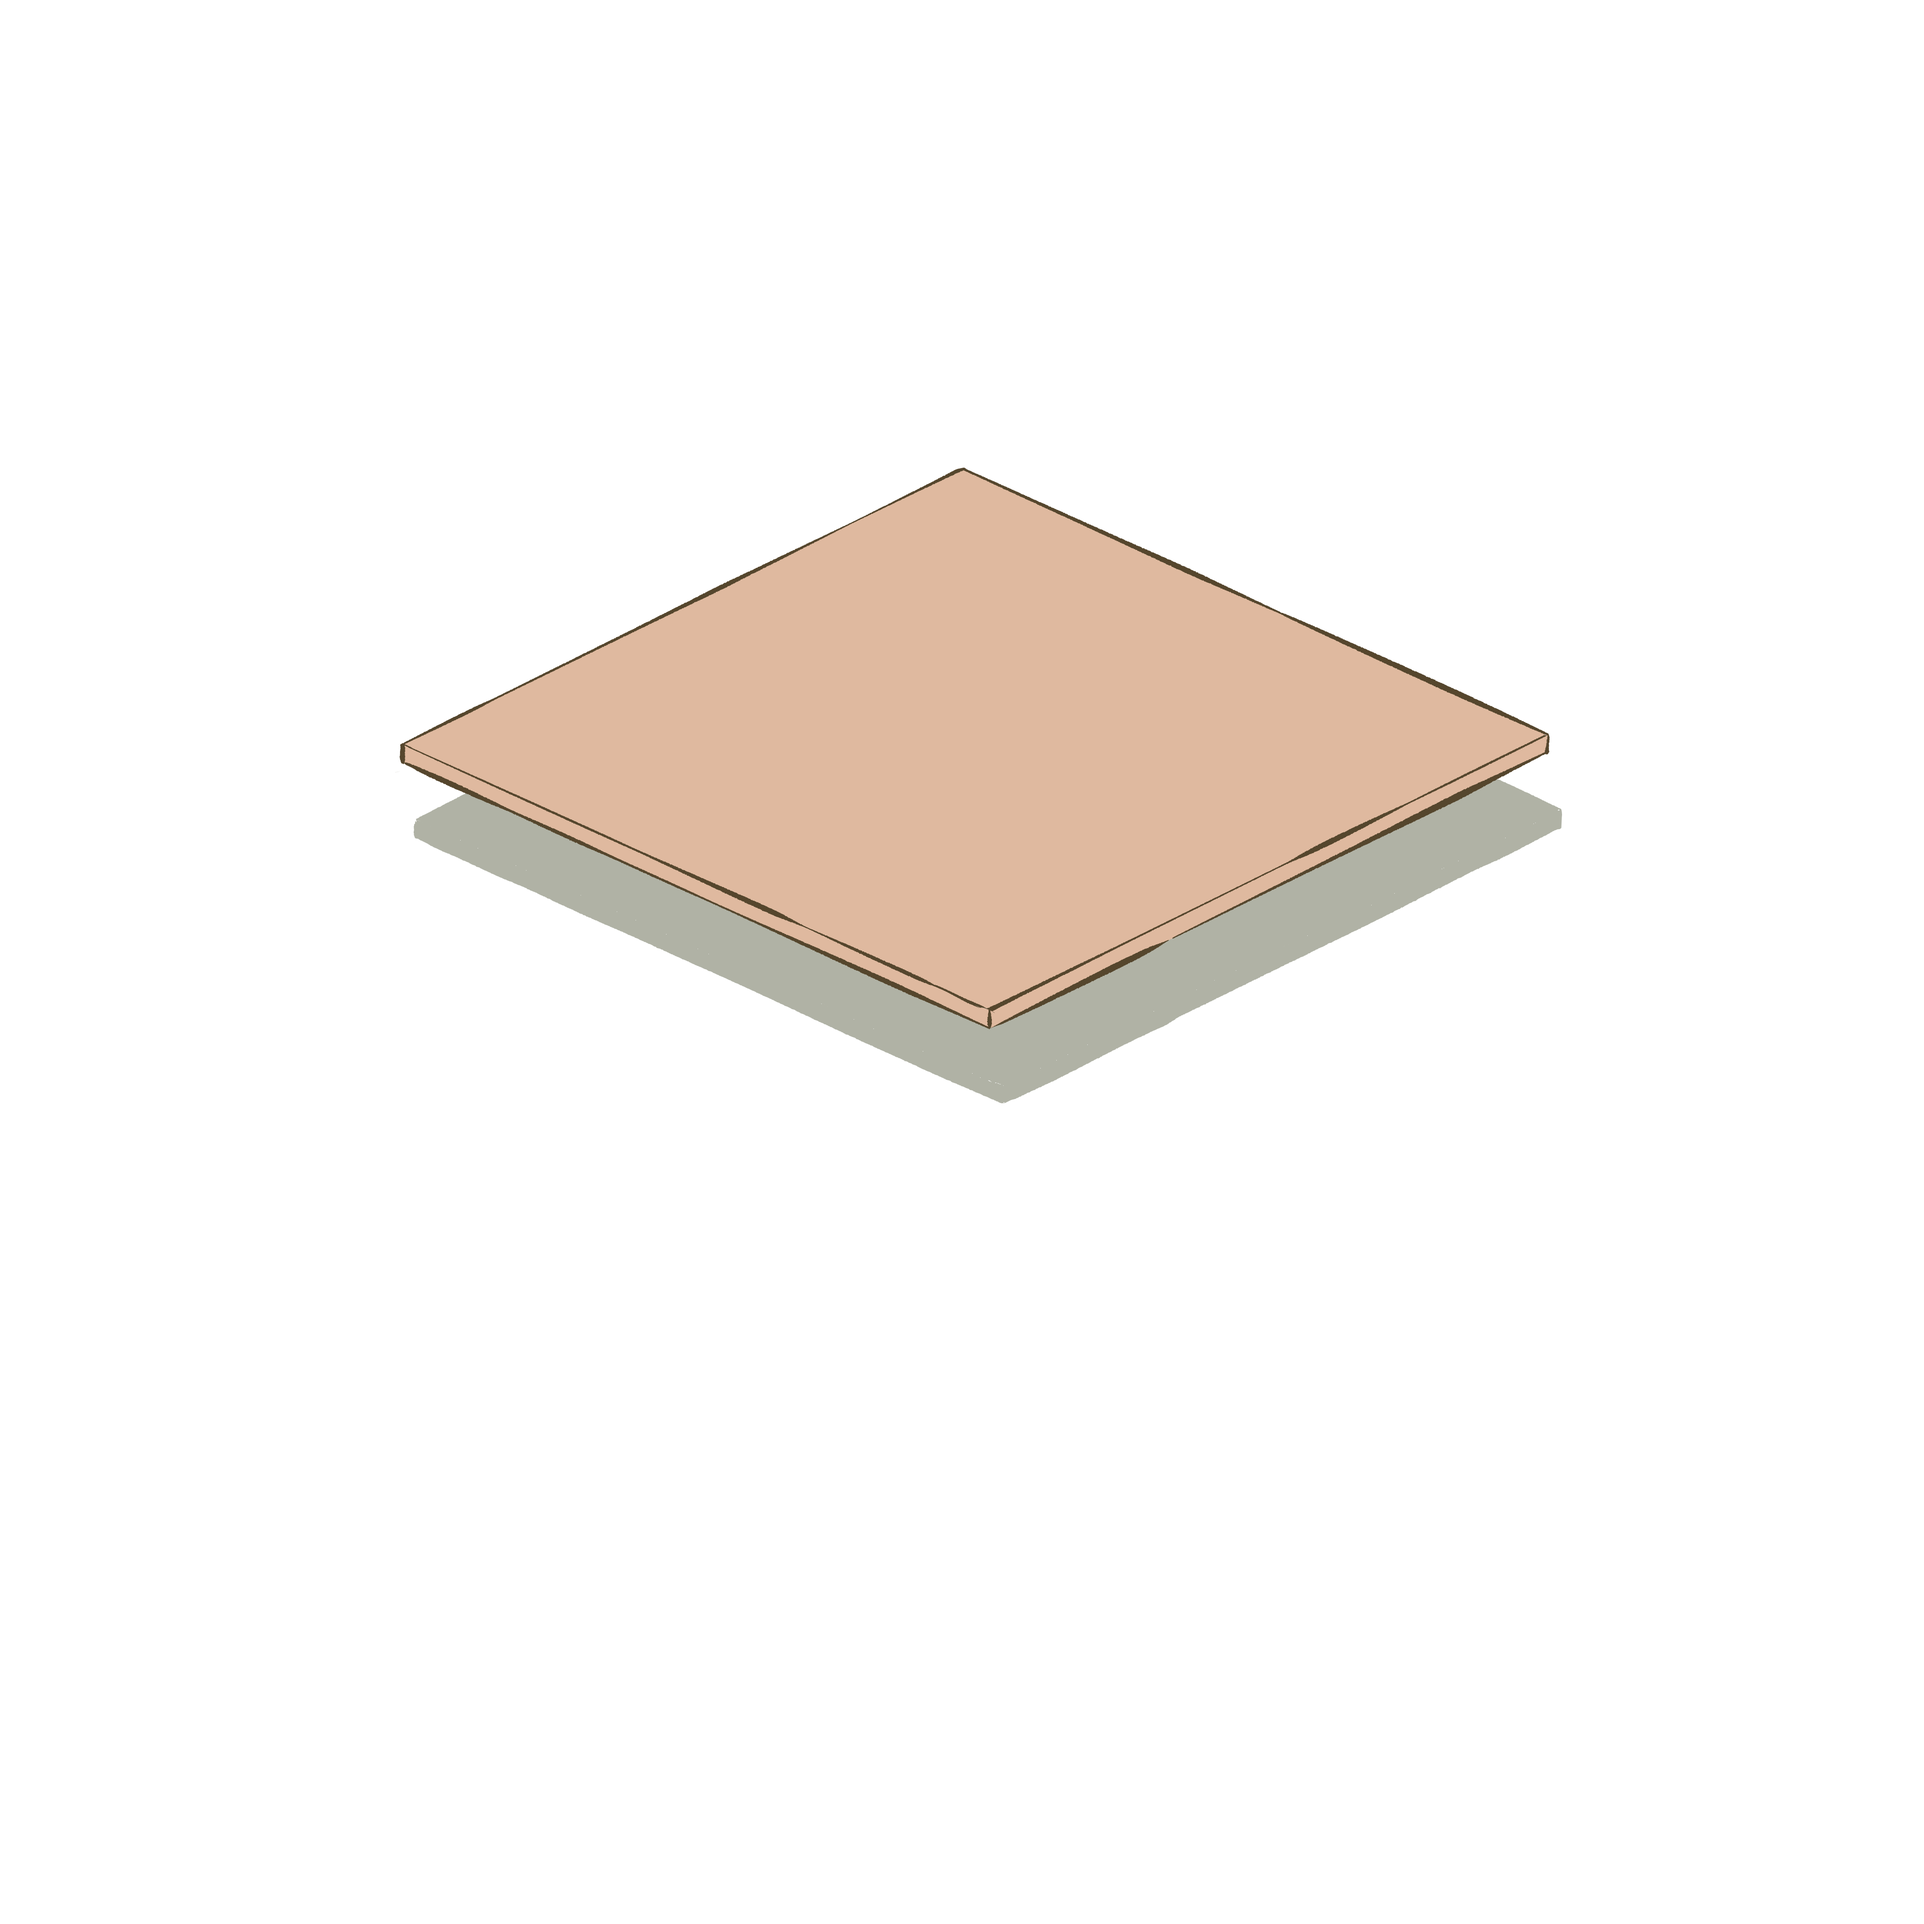
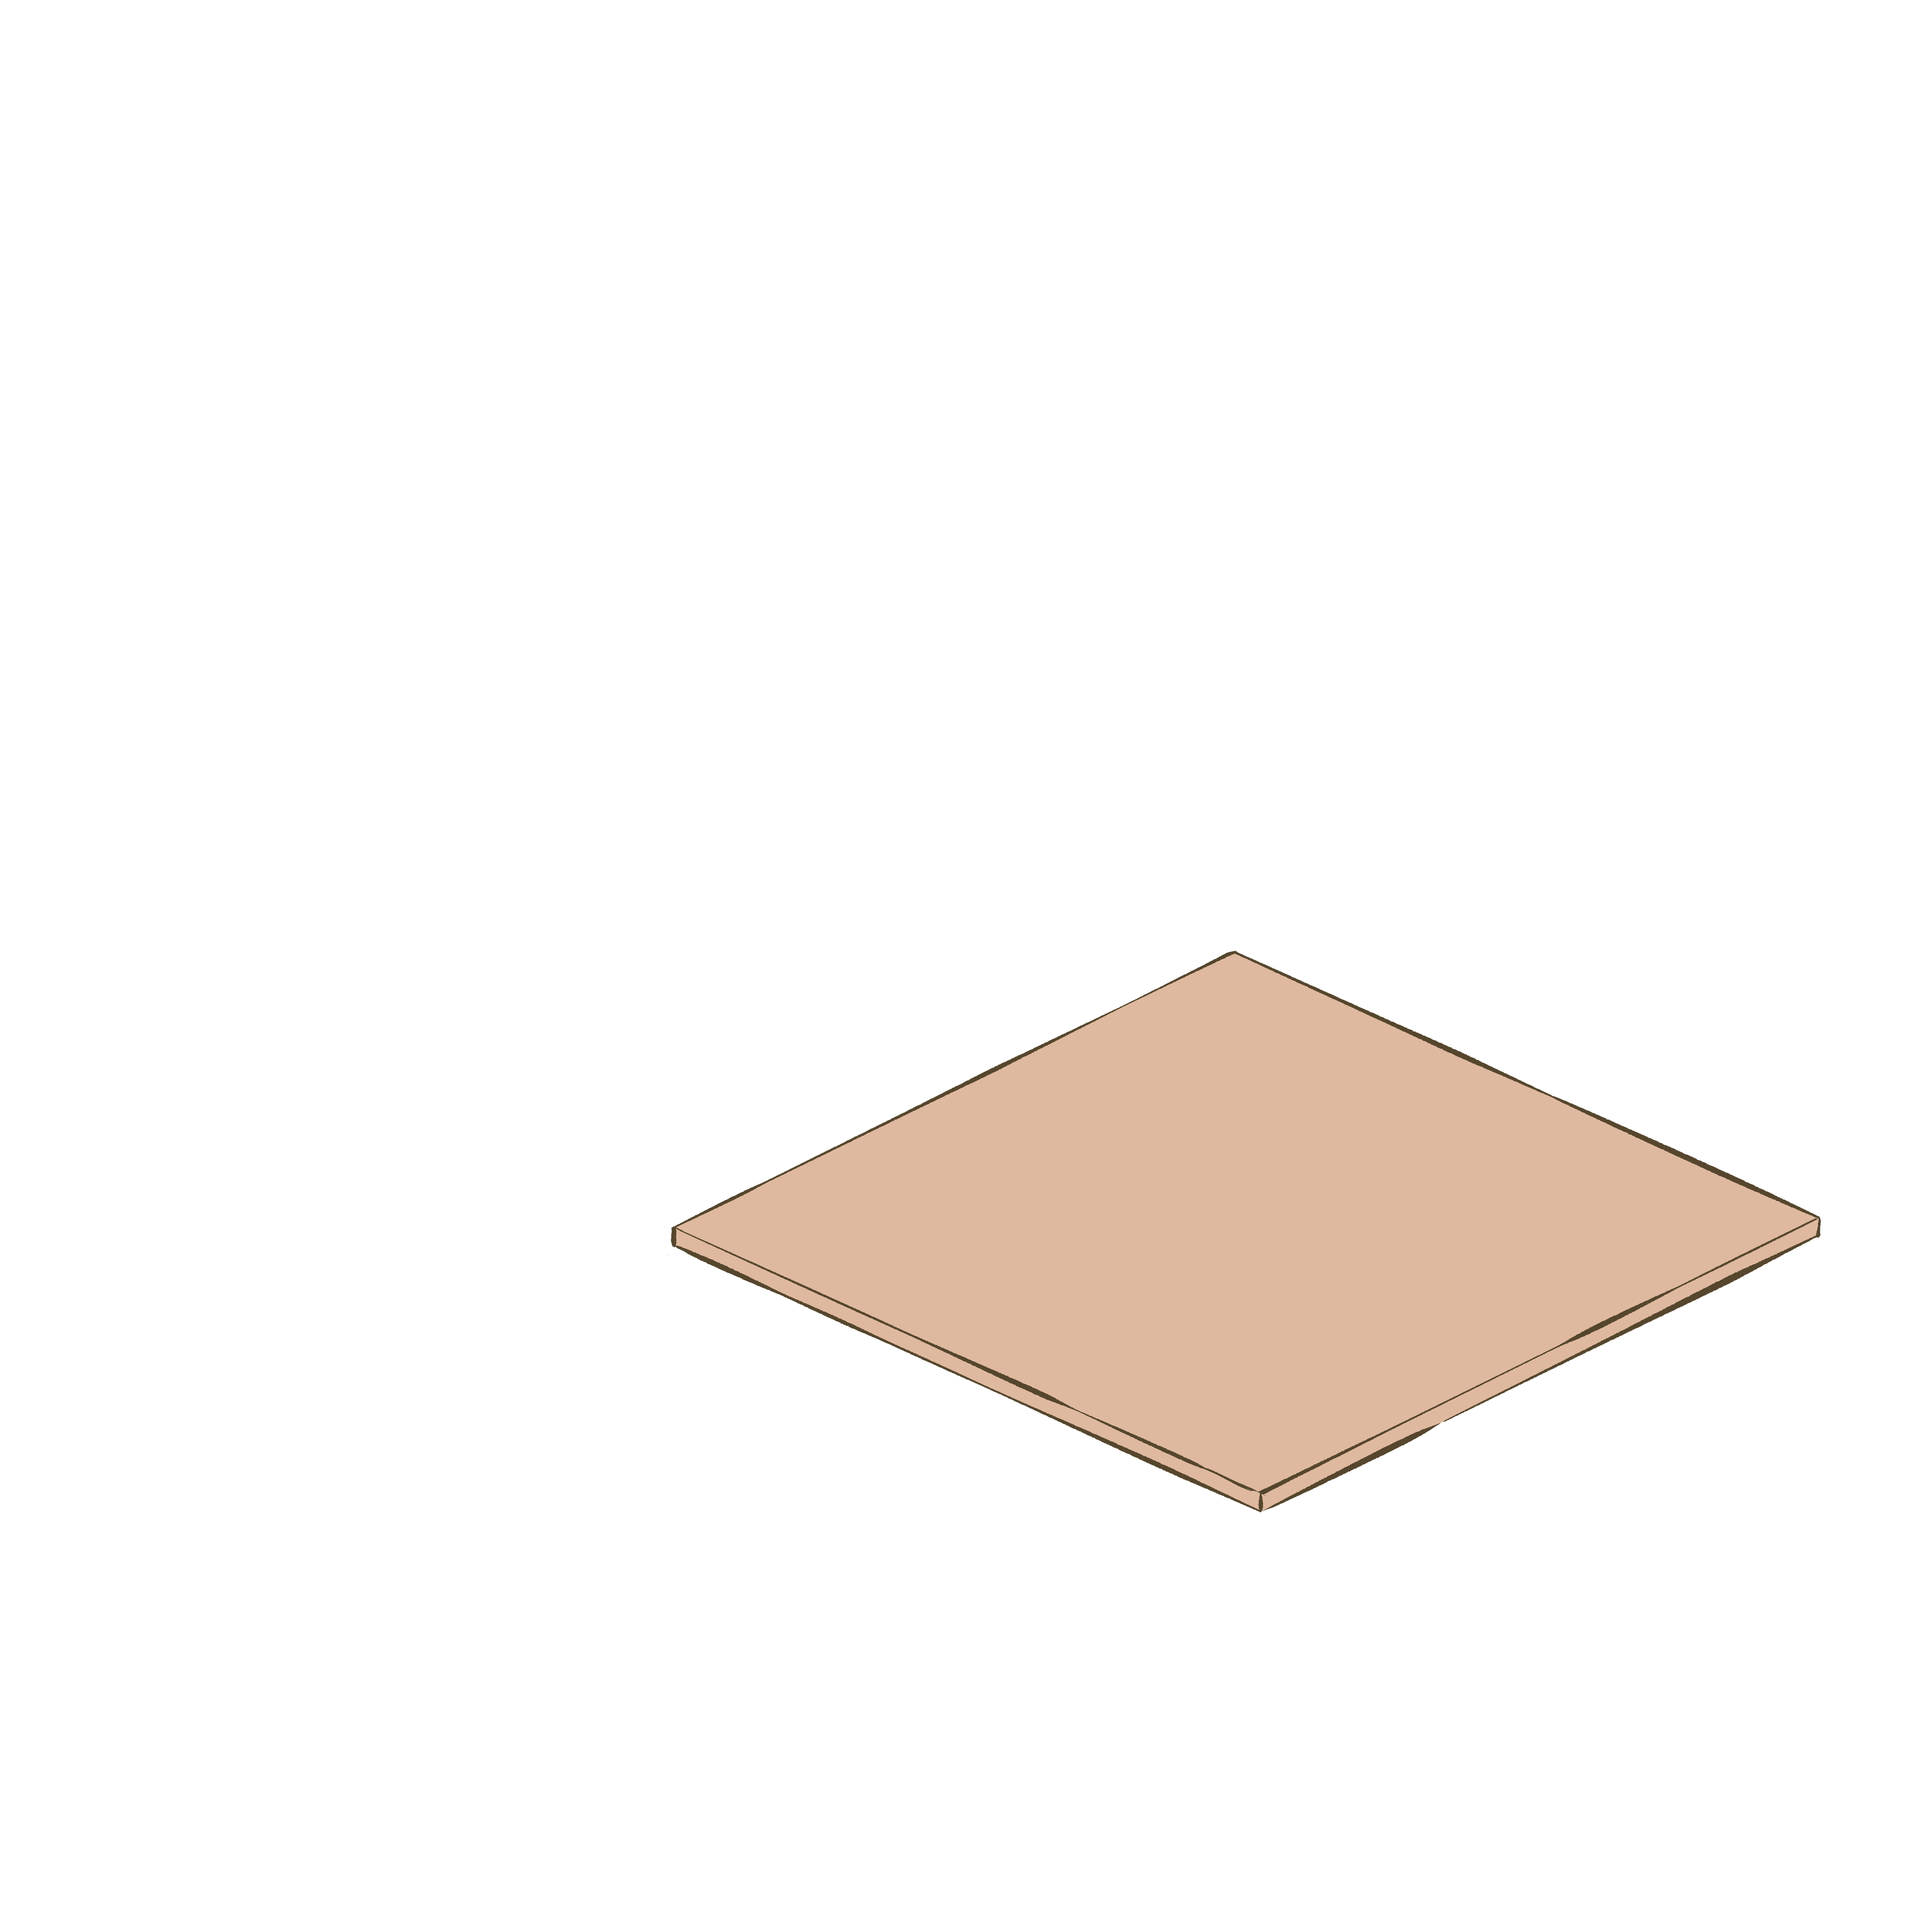
Config of object tap detection, Added objects (Kotatsu)

Changed region(s): [[0.1862, 0.2482, 0.9619, 0.8067]]

diff --git a/lib/scripts/layout/purin/purin_entity.dart b/lib/scripts/layout/purin/purin_entity.dart
@@ -1,37 +1,57 @@
+import 'package:flame/collisions.dart';
 import 'package:flame/components.dart';
 import 'package:flame/effects.dart';
 import 'package:flame/events.dart';
 import 'package:flame/flame.dart';
 import 'package:flutter/cupertino.dart';
+import 'package:flutter/material.dart';
 import 'package:pomodoropompurin/scripts/core/purin/purin_state_manager.dart';
 import 'package:pomodoropompurin/scripts/core/purinArea/purin_area_state_manager.dart';
 import 'package:pomodoropompurin/scripts/layout/purin/purin_anim.dart';
 
-class PurinEntity extends SpriteComponent with TapCallbacks {
-  PurinEntity({required Vector2 position, required Anchor anchor}) {
-    this.position = position;
-    sprite = Sprite(Flame.images.fromCache('SamplePurin.png'));
-    size = Vector2(80, 80);
-    this.anchor = anchor;
+class PurinEntity extends PositionComponent with TapCallbacks, GestureHitboxes {
+  PurinEntity() {
+    anchor = Anchor.center;
     priority = 20;
   }
 
   final purinAreaStateManager = PurinAreaStateManager.singleton;
 
   late PurinAnim purinAnim;
+  late SpriteComponent purinSprite;
+  late PolygonHitbox purinHitbox;
 
   @override
   void onMount() {
     super.onMount();
+    position = Vector2(130, 160);
+
     purinAnim = PurinAnim();
+    purinSprite = SpriteComponent(
+      sprite: Sprite(Flame.images.fromCache('purinEntity.png')),
+      size: Vector2.all(70),
+      position: Vector2(0, 0),
+      anchor: Anchor.center,
+    );
 
     /// just a scalingAnim (breathing..)
     add(purinAnim);
+    add(purinSprite);
+
+    //sample hitbox, to put in center first!
+    final hitbox = CircleHitbox(
+      radius: 25,
+      anchor: Anchor.center, // <-- remember this
+    );
+    hitbox.paint.color = const Color.fromARGB(135, 68, 137, 255);
+    //hitbox.renderShape = true;
+    add(hitbox);
   }
 
   @override
   void onLongTapDown(TapDownEvent event) {
     purinAreaStateManager.jumpToPosition(absolutePosition);
+    debugPrint("$absolutePosition");
     // ... open menu and stuff
   }
 }

diff --git a/lib/scripts/page/main_page.dart b/lib/scripts/page/main_page.dart
@@ -1,5 +1,6 @@
 import 'package:flame/game.dart';
 import 'package:flutter/material.dart';
+import 'package:pomodoropompurin/scripts/core/pom_timer/pom_timer.dart';
 import 'package:pomodoropompurin/scripts/layout/current_datetime_display/current_datetime_display.dart';
 import 'package:pomodoropompurin/scripts/layout/menu_dropdown/menu_dial.dart';
 import 'package:pomodoropompurin/scripts/layout/pom_timer/pom_timer_dial.dart';
@@ -16,12 +17,20 @@ class MainPage extends StatefulWidget {
   State<MainPage> createState() => _MainPageState();
 }
 
-class _MainPageState extends State<MainPage> {
+class _MainPageState extends State<MainPage> with TickerProviderStateMixin {
   final assetManager = AssetManager.singleton;
+  final pomTimer = PomTimer.singleton;
+  bool _enableModalBarrier = false;
 
   @override
   void initState() {
     super.initState();
+    /* 
+    pomTimer.disablePurinArea = (bool enableModalBarrier) {
+      setState(() {
+        _enableModalBarrier = enableModalBarrier;
+      });
+    }; */
   }
 
   @override
@@ -35,8 +44,13 @@ class _MainPageState extends State<MainPage> {
           ), */
           GameWidget(game: PurinArea()),
           MenuDial(),
-          PomTimerDisplay(),
           CurrentDatetimeDisplay(),
+          /*  if (_enableModalBarrier)
+            ModalBarrier(
+              color: const Color.fromARGB(133, 0, 0, 0),
+              dismissible: true,
+            ), */
+          PomTimerDisplay(),
         ],
       ),
     );

diff --git a/lib/scripts/layout/purinArea/purin_area_home.dart b/lib/scripts/layout/purinArea/purin_area_home.dart
@@ -5,6 +5,7 @@ import 'package:flame/flame.dart';
 import 'package:flutter/material.dart';
 import 'package:pomodoropompurin/scripts/core/purinArea/purin_area_state_manager.dart';
 import 'package:pomodoropompurin/scripts/layout/purin/purin_entity.dart';
+import 'package:pomodoropompurin/scripts/layout/purinArea/kotatsu.dart';
 
 class PurinAreaHome extends PositionComponent with TapCallbacks {
   PurinAreaHome({required Vector2 position}) {
@@ -20,12 +21,13 @@ class PurinAreaHome extends PositionComponent with TapCallbacks {
   Future<void> onMount() async {
     super.onMount();
     scale = Vector2.all(0.01);
+
     addOnLoadAnim();
     // Home Sprite
     add(
       SpriteComponent(
         sprite: Sprite(Flame.images.fromCache('purinAreaHome_floor.png')),
-        size: Vector2.all(800),
+        size: Vector2.all(1200),
         anchor: anchor,
         priority: 10,
       ),
@@ -33,14 +35,14 @@ class PurinAreaHome extends PositionComponent with TapCallbacks {
     add(
       SpriteComponent(
         sprite: Sprite(Flame.images.fromCache('purinAreaHome_stairs.png')),
-        size: Vector2.all(800),
+        size: Vector2.all(1200),
         anchor: anchor,
         priority: 11,
       ),
     );
-    purinEntity = PurinEntity(position: Vector2(100, 100), anchor: anchor);
+    purinEntity = PurinEntity();
+    add(Kotatsu());
     add(purinEntity);
-    add(PurinEntity(position: Vector2(0, -100), anchor: anchor));
   }
 
   void addOnLoadAnim() {

diff --git a/lib/scripts/layout/purinArea/kotatsu.dart b/lib/scripts/layout/purinArea/kotatsu.dart
@@ -1,0 +1,50 @@
+import 'package:flame/collisions.dart';
+import 'package:flame/components.dart';
+import 'package:flame/events.dart';
+import 'package:flame/flame.dart';
+import 'package:flutter/material.dart';
+import 'package:pomodoropompurin/scripts/core/purinArea/purin_area_state_manager.dart';
+
+class Kotatsu extends PositionComponent with TapCallbacks, GestureHitboxes {
+  Kotatsu() {
+    anchor = Anchor.center;
+    priority = 50;
+  }
+
+  final purinAreaStateManager = PurinAreaStateManager.singleton;
+
+  late SpriteComponent kotatsuSprite;
+  final kotatsuHitbox = PolygonHitbox(
+    [
+      Vector2(0, 85),
+      Vector2(100, 30),
+      Vector2(80, 10),
+      Vector2(0, -30),
+      Vector2(-80, 10),
+      Vector2(-100, 30),
+    ],
+    anchor: Anchor.center,
+    position: Vector2(190, 210),
+  );
+
+  @override
+  void onMount() {
+    super.onMount();
+
+    kotatsuSprite = SpriteComponent(
+      sprite: Sprite(Flame.images.fromCache("purinAreaHome_kotatsu.png")),
+      size: Vector2.all(1200),
+      anchor: anchor,
+    );
+
+    kotatsuHitbox.paint.color = const Color.fromARGB(124, 68, 137, 255);
+    //kotatsuHitbox.renderShape = true;
+    add(kotatsuSprite);
+    add(kotatsuHitbox);
+  }
+
+  @override
+  void onLongTapDown(TapDownEvent event) {
+    purinAreaStateManager.jumpToPosition(event.canvasPosition);
+  }
+}

diff --git a/lib/scripts/core/pom_timer/pom_timer.dart b/lib/scripts/core/pom_timer/pom_timer.dart
@@ -29,10 +29,11 @@ class PomTimer {
   bool isPlaying = false;
   bool onBreak = false;
 
-  // Callbacks functions for display/layout widgets (PomTimerDisplay defines this...)
+  // Callbacks functions for display/layout widgets
   void Function() updatePomTimerCount = () {};
   void Function() updatePomTimerGauge = () {};
   void Function(String) switchPomTimerMode = (s) {};
+  void Function(bool) disablePurinArea = (b) {};
 
   String pomTimerState = 'Inactive';
 
@@ -42,6 +43,7 @@ class PomTimer {
     } else {
       isPlaying = true;
       switchPomTimerMode('Active');
+      disablePurinArea(true);
 
       if (restart) {
         // Not a 'resume', set INITIAL INPUT times
@@ -116,6 +118,7 @@ class PomTimer {
       isPlaying = false;
       timer.cancel();
       switchPomTimerMode('Paused');
+      disablePurinArea(false);
     }
   }
 
@@ -138,6 +141,7 @@ class PomTimer {
     timeLeftSeconds = 0;
     timeTotalSeconds = 0; //
     switchPomTimerMode('Idle');
+    disablePurinArea(false);
 
     /// Tell Koupen that the timer was stopped before connection is severed;
     /// and rewards was already awarded...

diff --git a/lib/scripts/layout/purinArea/purin_area.dart b/lib/scripts/layout/purinArea/purin_area.dart
@@ -21,8 +21,8 @@ class PurinArea extends FlameGame
   /// Assets paths (from assets/images/->...)
   final backgroundAsset = 'L7.png';
   @override
-  Color backgroundColor() => const Color.fromARGB(255, 190, 179, 149);
-
+  Color backgroundColor() => const Color.fromARGB(255, 163, 210, 200);
+  /* const Color.fromARGB(255, 190, 179, 149) */
   SpriteComponent cursorSprite = CursorMovingSprite(
     position: Vector2.zero(),
     priority: -999,

diff --git a/lib/scripts/core/purinArea/purin_area_state_manager.dart b/lib/scripts/core/purinArea/purin_area_state_manager.dart
@@ -8,6 +8,6 @@ class PurinAreaStateManager {
   String state = 'Idle';
   bool get isTransforming => (state == 'Idle') ? false : true;
 
-  /// Set by PurinArea, updates newPosition s.t. position is at center
+  /// Function set in PurinArea, updates newPosition s.t. position is at center
   void Function(Vector2) jumpToPosition = (Vector2 position) {};
 }

diff --git a/lib/scripts/memory/asset_manager.dart b/lib/scripts/memory/asset_manager.dart
@@ -43,6 +43,9 @@ class AssetManager {
       'test_bg.png',
       "purinAreaHome_floor.png",
       "purinAreaHome_stairs.png",
+      "purinEntity.png",
+      "purinAreaHome_whole.png",
+      "purinAreaHome_kotatsu.png",
     ];
 
     for (String imagePath in allFlameImages) {
